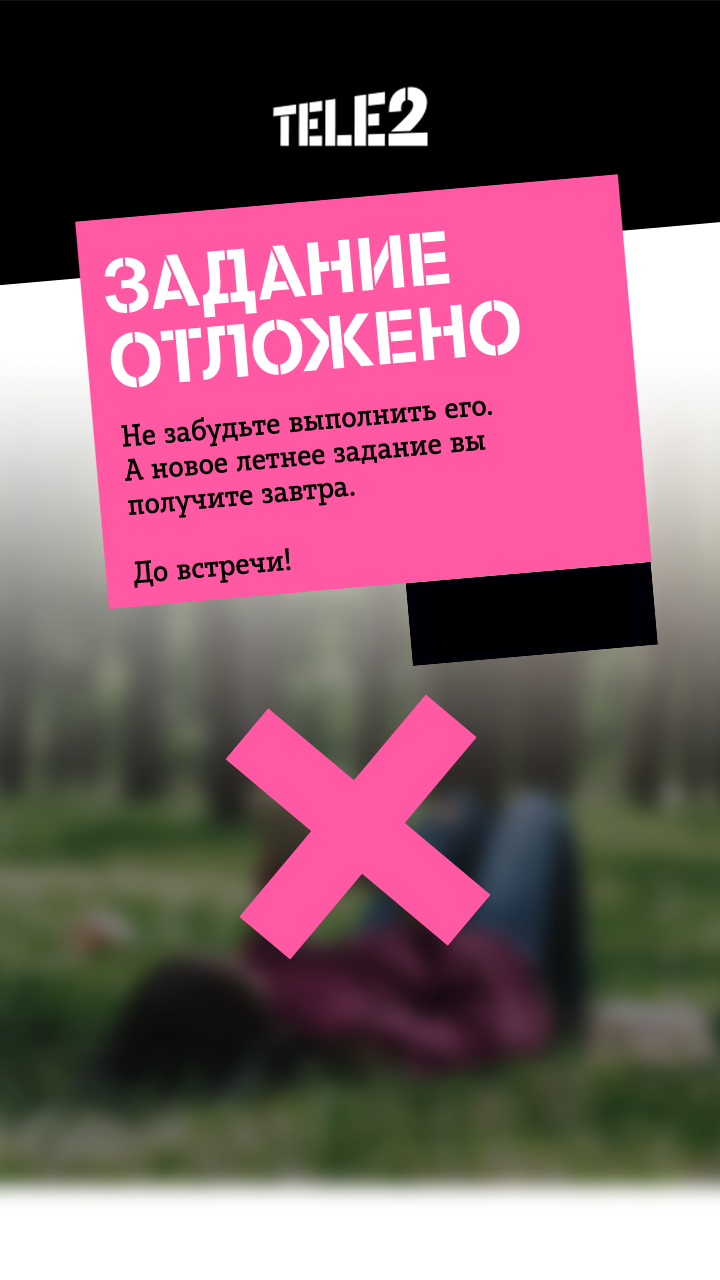
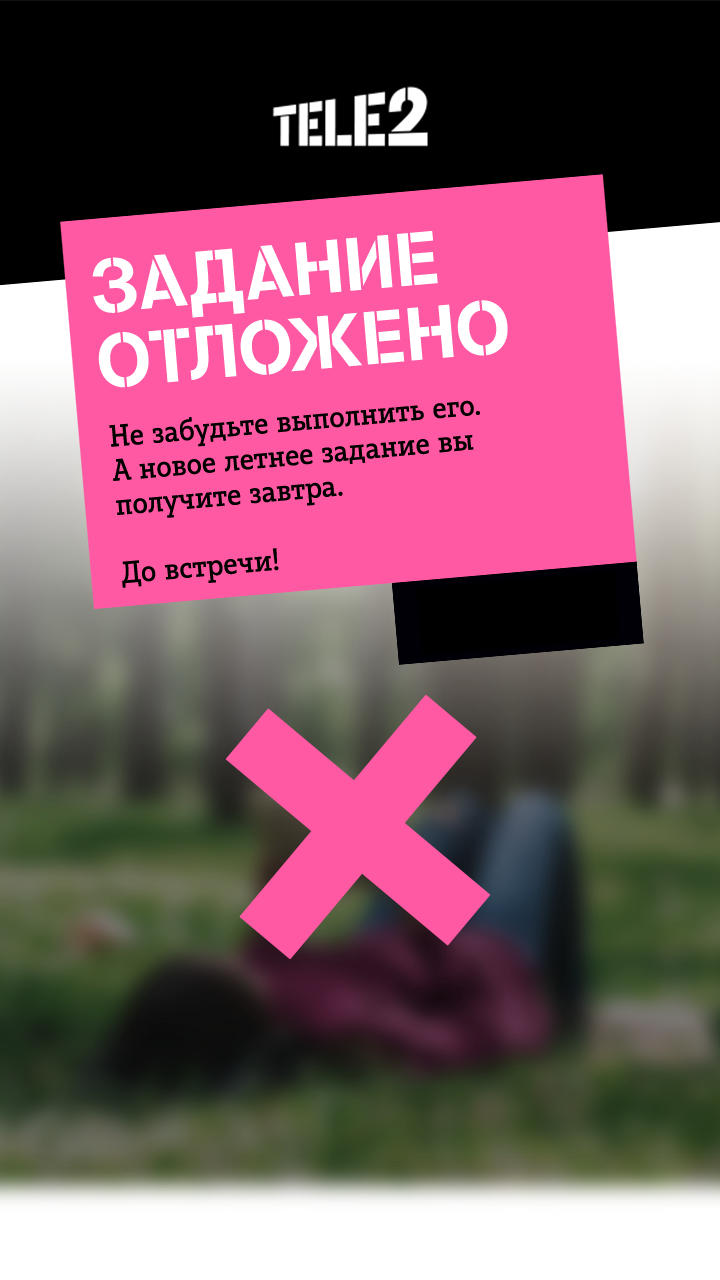
add

Changed region(s): [[0.0611, 0.1562, 0.7333, 0.5], [0.825, 0.125, 0.9167, 0.5312], [0.5194, 0.4375, 0.5806, 0.5312]]

diff --git a/src/scripts/components/ListScreen.ts b/src/scripts/components/ListScreen.ts
@@ -2,7 +2,6 @@ import TaskData from '../data';
 import Scrolling, { IScrollingOptions } from '../libs/Scrolling';
 import { Fonts, TaskType } from '../types';
 import Game from './../scenes/Game';
-import Utils from './../libs/Utils';
 
 export default class ListScreen {
   private scene: Game;
@@ -15,8 +14,8 @@ export default class ListScreen {
   constructor(scene: Game) {
     this.scene = scene;
     this.scrollHeight = Number(this.scene.game.config.height) - 50;
-    this.windowHeight = 670;
-    this.windowWidth = 591;
+    this.windowHeight = 638;
+    this.windowWidth = 720;
     
     this.initScrolling();
     this.create();
@@ -24,7 +23,7 @@ export default class ListScreen {
 
   private initScrolling(): void {
     this.height = this.scrollHeight + this.windowHeight - 150;
-    let y: number = this.scene.cameras.main.centerY - 165;
+    let y: number = this.scene.cameras.main.centerY - 135;
     const cameraOptions: IScrollingOptions = {
       x: 40,
       y: y,
@@ -53,7 +52,7 @@ export default class ListScreen {
 
       const y = this.windowHeight + this.scrollHeight + 50;
       const button = this.scene.add.sprite(centerX - 40, y, 'story-button').setOrigin(0.5, 0);
-      this.scrollHeight += button.displayHeight + 50;
+      this.scrollHeight += button.displayHeight + 100;
       this.scrolling.bottom = this.scrollHeight;
     }
   }
@@ -61,13 +60,13 @@ export default class ListScreen {
   private createTask(id: number) {
     const dayData = TaskData[this.scene.state.city][id];
     const padding = 35;
-    const x = 70;
+    const x = 50;
     const y = this.windowHeight + this.scrollHeight + padding;
 
     const text = this.scene.add.text(x + 30, y, dayData.title, {
       fontFamily: Fonts.Tele2DisplaySerif_Regular,
-      wordWrap: { width: 500 }, 
-      fontSize: '20px',
+      wordWrap: { width: 580 }, 
+      fontSize: '23px',
     });
     const square = this.scene.add.sprite(x, text.getBounds().centerY, 'green-square');
 

diff --git a/src/scripts/components/DeferrerScreen.ts b/src/scripts/components/DeferrerScreen.ts
@@ -16,8 +16,8 @@ export default class DeferrerScreen {
   constructor(scene: Game) {
     this.scene = scene;
     this.scrollHeight = Number(this.scene.game.config.height);
-    this.windowHeight = 670;
-    this.windowWidth = 591;
+    this.windowHeight = 638;
+    this.windowWidth = 720;
     
     this.initScrolling();
     this.create();
@@ -25,7 +25,7 @@ export default class DeferrerScreen {
 
   private initScrolling(): void {
     this.height = this.scrollHeight + this.windowHeight - 150;
-    let y: number = this.scene.cameras.main.centerY - 165;
+    let y: number = this.scene.cameras.main.centerY - 135;
     const cameraOptions: IScrollingOptions = {
       x: 40,
       y: y,
@@ -57,6 +57,9 @@ export default class DeferrerScreen {
       this.scene.state.deferred.forEach(element => {
         this.createTask(element);
       });
+
+      this.scrollHeight += 100;
+      this.scrolling.bottom = this.scrollHeight;
     }
   }
 
@@ -64,13 +67,13 @@ export default class DeferrerScreen {
   private createTask(id: number) {
     const dayData = TaskData[this.scene.state.city][id];
     const padding = 35;
-    const x = 70;
+    const x = 50;
     const y = this.windowHeight + this.scrollHeight + padding;
 
     const text = this.scene.add.text(x + 30, y, dayData.title, {
       fontFamily: Fonts.Tele2DisplaySerif_Regular,
-      wordWrap: { width: 500 }, 
-      fontSize: '20px',
+      wordWrap: { width: 580 }, 
+      fontSize: '23px',
     });
 
     const square = this.scene.add.sprite(x, text.getBounds().centerY, 'pink-square');

diff --git a/src/scripts/components/TaskScreen.ts b/src/scripts/components/TaskScreen.ts
@@ -54,17 +54,29 @@ export default class TaskScreen {
 
   private onButtonClick(done: boolean) {
     if (done) {
-      api.answerTask({ vkId: this.scene.state.vkId, taskId: this.scene.state.currentDay }).then(res => {
-        if (res.error) return;
+      if (process.env.DEV) {
         this.scene.state.answered.push(this.scene.state.currentDay);
+        this.scene.state.currentDay += 1;
         this.scene.scene.restart(this.scene.state);
-      });
+      } else {
+        api.answerTask({ vkId: this.scene.state.vkId, taskId: this.scene.state.currentDay }).then(res => {
+          if (res.error) return;
+          this.scene.state.answered.push(this.scene.state.currentDay);
+          this.scene.scene.restart(this.scene.state);
+        });
+      }
     } else {
-      api.deferTask({ vkId: this.scene.state.vkId, taskId: this.scene.state.currentDay }).then(res => {
-        if (res.error) return;
+      if (process.env.DEV) {
         this.scene.state.deferred.push(this.scene.state.currentDay);
+        this.scene.state.currentDay += 1;
         this.scene.scene.restart(this.scene.state);
-      });
+      } else {
+        api.deferTask({ vkId: this.scene.state.vkId, taskId: this.scene.state.currentDay }).then(res => {
+          if (res.error) return;
+          this.scene.state.deferred.push(this.scene.state.currentDay);
+          this.scene.scene.restart(this.scene.state);
+        });
+      }
     }
   }
 };

diff --git a/src/scripts/scenes/Boot.ts b/src/scripts/scenes/Boot.ts
@@ -29,8 +29,8 @@ export default class BootScene extends Phaser.Scene {
   }
 
   private initUser(): void {
-    if (process.env.DEV) {
-      this.state.vkId = 1255
+    if (process.env.DEV && process.env.TEST) {
+      this.state.vkId = 1255889
       this.checkUser();
     } else {
       bridge.send('VKWebAppGetUserInfo').then(data => {
@@ -52,6 +52,11 @@ export default class BootScene extends Phaser.Scene {
         this.state.city = data.city;
         this.state.answered = data.answered;
         this.state.deferred = data.deferred;
+        if (process.env.DEV) {
+          this.state.currentDay = 0;
+          this.state.answered = [];
+          this.state.deferred = [];
+        }
         this.userReady = true;
       });
   }

diff --git a/src/scripts/components/SetCityScreen.ts b/src/scripts/components/SetCityScreen.ts
@@ -76,7 +76,7 @@ export default class SetCityScreen {
   private createButtons(): void {
     const { centerX, centerY } = this.scene.cameras.main;
     this.yesButton = this.scene.add.sprite(centerX, centerY + 250, 'yes-button').setVisible(false);
-    this.noButton = this.scene.add.sprite(centerX, centerY + 400, 'no-button').setVisible(false);
+    this.noButton = this.scene.add.sprite(centerX + 15, centerY + 400, 'no-button').setVisible(false);
     Utils.clickButton(this.scene, this.noButton, () => {
       this.openNextScreen(false);
     });
